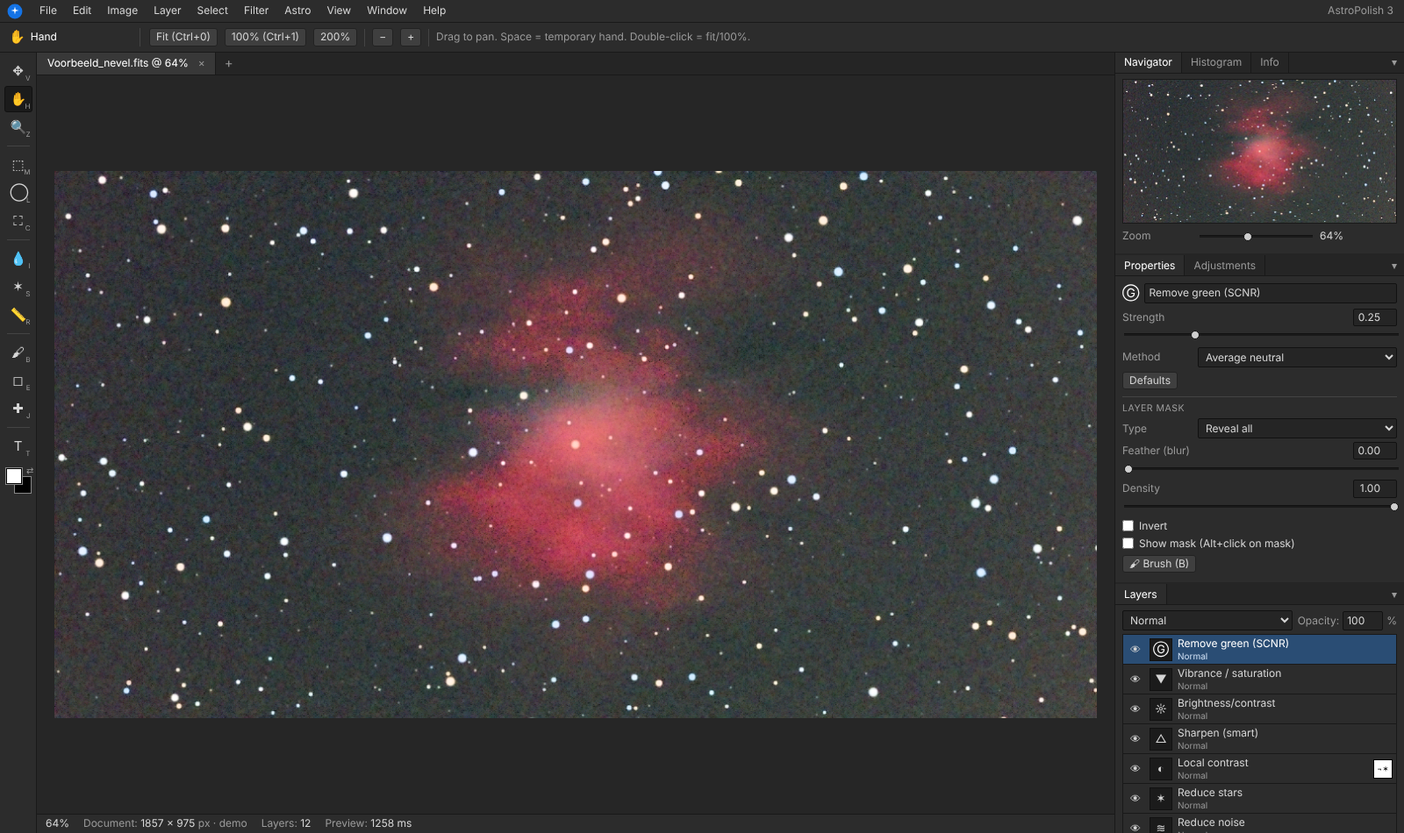
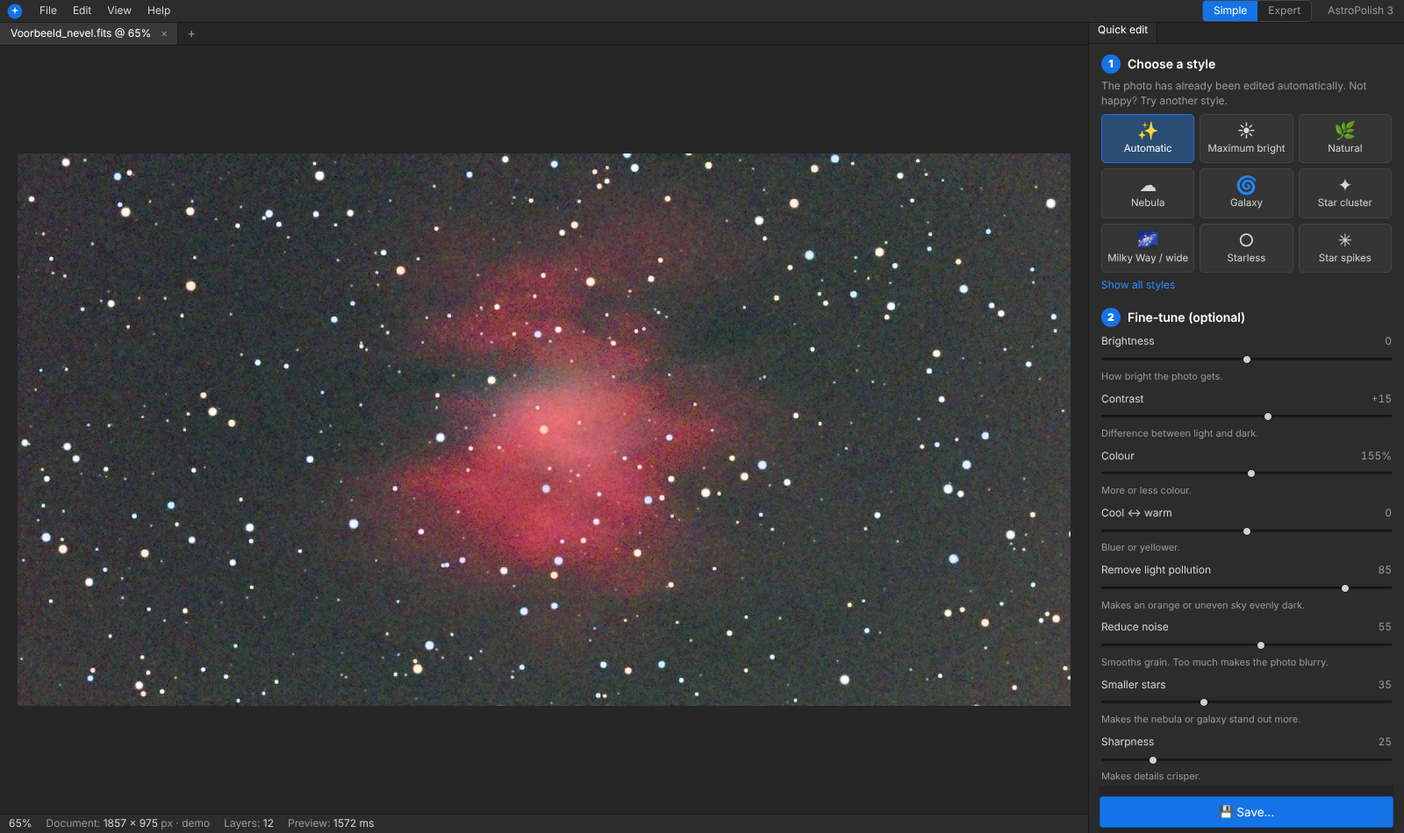
v3.1.0: Simple mode for beginners
- Mode switch Simple/Expert (Simple is default for new users)
- Simple: 3-step quick-edit panel with style tiles, 8 plain-language sliders, before/after, sticky save
- Reduced menus and shortcuts in Simple mode, friendly start screen
- Expert: short explanation for each layer in Properties, layer list and menus

diff --git a/app/js/app.js b/app/js/app.js
@@ -49,6 +49,7 @@
     beforeCanvas: document.createElement('canvas'), afterCanvas: document.createElement('canvas'), snapCanvas: document.createElement('canvas'),
     afterData: null, hist: null, histCh: 'rgb', histLog: false, renderMs: 0, region: null,
     previewBusy: false, previewQueued: false, regionTimer: 0, token: 0, mouse: null, drag: null,
+    mode: store.get('mode', 'simple'),
     prefs: Object.assign({ preview: 1200, cache: 12 }, store.get('prefs', {})),
     panels: store.get('panels', { nav: true, hist: true, info: true, props: true, adj: true, layers: true, history: true, actions: true }),
     panelTab: { a: 'nav', b: 'props', c: 'layers', d: 'actions' },
@@ -808,7 +809,7 @@
   const SHORT_OPS = { levels: 'Ctrl+L', curves: 'Ctrl+M', huesat: 'Ctrl+U', colorbalance: 'Ctrl+B', invert: 'Ctrl+I', bw: 'Alt+Shift+Ctrl+B' };
   function adjMenu(groups) {
     const items = [];
-    for (const g of groups) for (const k of Object.keys(O.OPS).filter((x) => O.OPS[x].g === g && x !== 'text')) items.push({ label: opName(k), icon: ICON[k], action: () => addLayer(k), shortcut: SHORT_OPS[k] });
+    for (const g of groups) for (const k of Object.keys(O.OPS).filter((x) => O.OPS[x].g === g && x !== 'text')) items.push({ label: opName(k), icon: ICON[k], action: () => addLayer(k), shortcut: SHORT_OPS[k], help: helpOf(k) });
     return items;
   }
   function menus() {
@@ -924,11 +925,13 @@
       [L('Venster', 'Window'), [
         ...[['nav', 'Navigator', 'Navigator'], ['hist', 'Histogram', 'Histogram'], ['info', 'Info', 'Info'], ['props', 'Eigenschappen', 'Properties'], ['adj', 'Aanpassingen', 'Adjustments'], ['layers', 'Lagen', 'Layers'], ['history', 'Geschiedenis', 'History'], ['actions', 'Acties', 'Actions']].map(([k, nl, en]) => ({ label: L(nl, en), chk: S.panels[k], action: () => { S.panels[k] = !S.panels[k]; store.set('panels', S.panels); renderDock(); } })),
         '-',
+        { label: L('Eenvoudige modus', 'Simple mode'), chk: S.mode === 'simple', action: () => setMode(S.mode === 'simple' ? 'expert' : 'simple') },
         { label: L('Werkruimte herstellen', 'Reset workspace'), action: () => { S.panels = { nav: true, hist: true, info: true, props: true, adj: true, layers: true, history: true, actions: true }; store.set('panels', S.panels); renderDock(); } },
       ]],
       [L('Help', 'Help'), [
         { label: L('AstroPolish Help', 'AstroPolish Help'), shortcut: 'F1', action: helpDialog },
         { label: L('Sneltoetsen', 'Keyboard shortcuts'), action: keysDialog },
+        { label: L('Eenvoudige modus', 'Simple mode'), chk: S.mode === 'simple', action: () => setMode(S.mode === 'simple' ? 'expert' : 'simple') },
         '-',
         { label: 'Nederlands', chk: I18N.getLang() === 'nl', action: () => { I18N.setLang('nl'); renderAll(); } },
         { label: 'English', chk: I18N.getLang() === 'en', action: () => { I18N.setLang('en'); renderAll(); } },
@@ -945,13 +948,20 @@
   function renderMenubar() {
     const mb = $('menubar'); mb.innerHTML = '';
     mb.appendChild(el('span', '', '<svg class="logo" viewBox="0 0 64 64"><circle cx="32" cy="32" r="30" fill="#1473e6"/><path d="M32 12l3.2 12.8L48 28l-12.8 3.2L32 44l-3.2-12.8L16 28l12.8-3.2z" fill="#fff"/></svg>'));
-    menus().forEach(([label], idx) => {
+    const ms = menus();
+    ms.forEach(([label], idx) => {
+      if (S.mode === 'simple' && ![0, 1, 7, 9].includes(idx)) return;
       const b = el('button', 'mtop', esc(label));
       b.onclick = (e) => { e.stopPropagation(); if (openMenu === idx) closeMenus(); else showTopMenu(idx, b); };
       b.onmouseenter = () => { if (openMenu !== null && openMenu !== idx && openMenu >= 0) showTopMenu(idx, b); };
       mb.appendChild(b);
     });
     mb.appendChild(el('span', 'spacer'));
+    const sw = el('div', 'modeswitch');
+    for (const [m, nl, en, tnl, ten] of [['simple', 'Eenvoudig', 'Simple', 'Stijl kiezen, een paar schuifjes, opslaan', 'Pick a style, a few sliders, save'], ['expert', 'Expert', 'Expert', 'Alle gereedschappen, lagen en maskers (Photoshop-stijl)', 'All tools, layers and masks (Photoshop style)']]) {
+      const b = el('button', S.mode === m ? 'on' : '', esc(L(nl, en))); b.title = L(tnl, ten); b.dataset.mode = m; b.onclick = (e) => { e.stopPropagation(); if (S.mode !== m) setMode(m); }; sw.appendChild(b);
+    }
+    mb.appendChild(sw);
     mb.appendChild(el('span', 'appname', 'AstroPolish 3'));
   }
   function closeMenus() { $('menuLayer').innerHTML = ''; openMenu = null; document.querySelectorAll('.mtop').forEach((x) => x.classList.remove('open')); }
@@ -967,6 +977,7 @@
     for (const it of items) {
       if (it === '-') { m.appendChild(el('div', 'sep')); continue; }
       const mi = el('div', 'mi' + (it.dis ? ' dis' : '') + (it.sub ? ' sub' : ''), `<span class="chk">${it.chk ? '✓' : ''}</span>${it.icon ? `<span style="width:16px;text-align:center">${it.icon}</span>` : ''}<span>${esc(it.label)}</span>${it.shortcut ? `<span class="sc">${esc(it.shortcut)}</span>` : ''}`);
+      if (it.help) mi.title = it.help;
       mi.onmouseenter = () => {
         m.querySelectorAll('.mi.open').forEach((o) => o.classList.remove('open'));
         [...layer.querySelectorAll('.menu')].filter((mm) => +mm.dataset.depth > depth).forEach((mm) => mm.remove());
@@ -1006,6 +1017,12 @@
   const PANEL_GROUPS = [['a', [['nav', 'Navigator', 'Navigator'], ['hist', 'Histogram', 'Histogram'], ['info', 'Info', 'Info']]], ['b', [['props', 'Eigenschappen', 'Properties'], ['adj', 'Aanpassingen', 'Adjustments']]], ['c', [['layers', 'Lagen', 'Layers']]], ['d', [['actions', 'Acties', 'Actions'], ['history', 'Geschiedenis', 'History']]]];
   function renderDock() {
     const dock = $('dock'); dock.innerHTML = '';
+    if (S.mode === 'simple') {
+      const p = el('section', 'panel simplepanel');
+      p.appendChild(el('div', 'phead', `<span class="ptab on">${L('Snel bewerken', 'Quick edit')}</span>`));
+      const body = el('div', 'pbody'); body.id = 'pb-s'; p.appendChild(body); dock.appendChild(p);
+      pSimple(body); return;
+    }
     for (const [gid, tabs] of PANEL_GROUPS) {
       const vis = tabs.filter(([k]) => S.panels[k]);
       if (!vis.length) continue;
@@ -1027,6 +1044,7 @@
   }
   function renderPanels(which) {
     const all = !which, want = (k) => all || which.includes(k);
+    if (S.mode === 'simple') { if ($('pb-s') && (all || which.includes('layers') || which.includes('props'))) pSimple($('pb-s')); const d0 = D(); if (d0 && $('sUndo')) { $('sUndo').disabled = d0.hIndex <= 0; $('sRedo').disabled = d0.hIndex >= d0.history.length - 1; } renderStatus(); return; }
     const a = S.panelTab.a, b = S.panelTab.b, d2 = S.panelTab.d;
     if ($('pb-a') && want(a)) ({ nav: pNav, hist: pHist, info: pInfo })[a]($('pb-a'));
     if ($('pb-b') && want(b)) ({ props: pProps, adj: pAdj })[b]($('pb-b'));
@@ -1116,7 +1134,7 @@
     for (const [title, ops] of sections) {
       box.appendChild(el('div', 'psec', esc(title)));
       const grid = el('div', 'adjgrid');
-      for (const k of ops) { const b = el('button', '', ICON[k] || '•'); b.title = opName(k); b.dataset.op = k; b.onclick = () => (D() ? addLayer(k) : toast(L('Open eerst een foto.', 'Open a photo first.'))); grid.appendChild(b); }
+      for (const k of ops) { const b = el('button', '', ICON[k] || '•'); b.title = opName(k) + (helpOf(k) ? '\n' + helpOf(k) : ''); b.dataset.op = k; b.onclick = () => (D() ? addLayer(k) : toast(L('Open eerst een foto.', 'Open a photo first.'))); grid.appendChild(b); }
       box.appendChild(grid);
     }
     box.appendChild(el('p', 'pnote', L('Klik op een icoon om een nieuwe laag boven de geselecteerde laag te maken. Is er een selectie, dan wordt die het masker.', 'Click an icon to add a new layer above the selected layer. If there is a selection, it becomes the mask.')));
@@ -1138,7 +1156,7 @@
       const hasMask = l.op !== 'text' && (l.mask.type !== 'none' || (l.mask.strokes && l.mask.strokes.length) || l.mask.invert);
       const li = el('li', 'layer' + (l.id === d.sel ? ' sel' : '') + (l.on ? '' : ' off'),
         `<button class="eye" title="${L('Tonen/verbergen', 'Show/hide')}">👁</button><span class="thumb">${ICON[l.op] || '•'}</span><span class="nm">${esc(layerTitle(l))}<small>${l.op === 'text' ? L('tekst', 'text') : esc(L(...BLEND_NAMES[l.blend || 'normal']))}${l.opacity < 1 ? ' · ' + Math.round(l.opacity * 100) + '%' : ''}</small></span>${hasMask ? `<span class="mk${l.mask.invert ? ' inv' : ''}${S.viewMaskId === l.id ? ' view' : ''}" title="${L('Masker (Alt+klik = tonen)', 'Mask (Alt+click = show)')}">${maskBadge(l.mask)}</span>` : '<span></span>'}`);
-      li.draggable = true; li.dataset.id = l.id;
+      li.draggable = true; li.dataset.id = l.id; li.title = helpOf(l.op);
       li.onclick = (e) => { if (e.target.classList.contains('eye')) return; if (e.altKey && hasMask) { toggleViewMask(l); return; } selectLayer(l.id); };
       li.querySelector('.eye').onclick = (e) => { e.stopPropagation(); toggleLayer(l.id); };
       li.ondblclick = () => { const n = window.prompt(L('Naam van de laag:', 'Layer name:'), layerTitle(l)); if (n !== null) { l.name = n; renderPanels(['layers', 'props']); commit(L('Laag hernoemd', 'Layer renamed'), true); } };
@@ -1180,6 +1198,7 @@
     const title = el('div', 'ptitle', `<span class="ic">${ICON[ly.op] || ''}</span>`);
     const nm = el('input'); nm.type = 'text'; nm.value = layerTitle(ly); nm.onchange = () => { ly.name = nm.value; renderPanels(['layers']); commit(L('Laag hernoemd', 'Layer renamed'), true); };
     title.appendChild(nm); box.appendChild(title);
+    if (helpOf(ly.op)) box.appendChild(el('p', 'phelp', esc(helpOf(ly.op))));
     if (ly.op === 'text') { textProps(box, ly); return; }
     const op = O.OPS[ly.op];
     if (!op.p.length) box.appendChild(el('p', 'pnote', L('Deze laag heeft geen instellingen.', 'This layer has no settings.')));
@@ -1415,6 +1434,149 @@
     const my = store.get('actions', {});
     my[n.slice(0, 50)] = { layers: deep(d.layers).filter((l) => l.op !== 'heal').map((l) => { if (l.params.wbPick) l.params.wbPick = null; if (l.params.bgPick) l.params.bgPick = null; if (l.mask) l.mask.strokes = []; return l; }) };
     store.set('actions', my); d.action = 'my:' + n.slice(0, 50); renderPanels(['actions']); toast(L('Actie opgeslagen.', 'Action saved.'));
+  }
+
+
+  // ---------------------------------------------------------- simple mode ---
+  const HELP = {
+    hotpix: ['Haalt losse felle pixels (ruis van de camera) weg.', 'Removes single bright pixels (camera noise).'],
+    gradient: ['Haalt lichtvervuiling en ongelijke achtergrond weg, zodat de lucht overal even donker is.', 'Removes light pollution and an uneven background so the sky is equally dark everywhere.'],
+    vignfix: ['Maakt donkere hoeken lichter.', 'Brightens dark corners.'],
+    colorcal: ['Maakt de achtergrond neutraal grijs en geeft de sterren natuurlijke kleuren.', 'Makes the background neutral grey and gives stars natural colours.'],
+    deconv: ['Maakt sterren en details scherper door de wazigheid van de lucht terug te rekenen.', 'Sharpens stars and detail by undoing atmospheric blur.'],
+    stretch: ['De belangrijkste stap: maakt de donkere ruwe opname helder zodat de nevel zichtbaar wordt.', 'The key step: brightens the dark raw image so the nebula becomes visible.'],
+    hdr: ['Voorkomt dat felle kernen (zoals in Orion) wit uitbijten.', 'Keeps bright cores (like in Orion) from burning out to white.'],
+    hdrmt: ['Haalt detail terug in felle gebieden.', 'Recovers detail in bright areas.'],
+    palette: ['Kleuren voor foto\'s met een duoband-filter (rood/blauwgroen).', 'Colours for photos taken with a dual-band filter (red/teal).'],
+    scnr: ['Haalt een groene waas weg.', 'Removes a green cast.'],
+    starreduce: ['Maakt sterren kleiner zodat de nevel meer opvalt.', 'Makes stars smaller so the nebula stands out.'],
+    starsplit: ['Bewerk sterren apart: kleiner, minder fel, andere kleur of helemaal weg.', 'Edit stars separately: smaller, dimmer, different colour or removed.'],
+    spikes: ['Voegt kruisvormige stralen toe aan felle sterren.', 'Adds cross-shaped rays to bright stars.'],
+    denoise: ['Maakt korrelige ruis glad.', 'Smooths out grainy noise.'],
+    bgsmooth: ['Maakt alleen de donkere achtergrond gladder, niet de nevel.', 'Smooths only the dark background, not the nebula.'],
+    localcontrast: ['Laat structuur in de nevel meer uitkomen.', 'Brings out structure in the nebula.'],
+    sharpen: ['Maakt fijne details scherper zonder de ruis te versterken.', 'Sharpens fine detail without boosting noise.'],
+    wavelets: ['Versterkt detail per grootte, zoals in RegiStax. Vooral voor maan en planeten.', 'Boosts detail per size, like RegiStax. Mainly for moon and planets.'],
+    brightcon: ['Lichter/donkerder en meer of minder contrast.', 'Lighter/darker and more or less contrast.'],
+    levels: ['Zwartpunt, middentonen en witpunt instellen.', 'Set black point, midtones and white point.'],
+    curves: ['Trek aan de lijn om bepaalde helderheden lichter of donkerder te maken.', 'Drag the line to make certain brightness levels lighter or darker.'],
+    vibrance: ['Meer of minder kleur.', 'More or less colour.'],
+    huesat: ['Kleur verschuiven, verzadigen of één kleur geven.', 'Shift colour, saturate or colourise.'],
+    hsl: ['Pas één kleur aan, bijvoorbeeld alleen het rood van de nevel.', 'Adjust one colour, e.g. only the red of the nebula.'],
+    temptint: ['Warmer (geler) of koeler (blauwer).', 'Warmer (yellower) or cooler (bluer).'],
+    glow: ['Zachte gloed rond felle delen.', 'Soft glow around bright parts.'],
+    vignette: ['Donkere randen voor meer focus op het midden.', 'Dark edges to focus on the centre.'],
+    heal: ['Schilder over satellietstrepen of vlekken om ze weg te werken.', 'Paint over satellite trails or spots to remove them.'],
+    text: ['Tekst op de foto, bijvoorbeeld de naam van het object.', 'Text on the photo, e.g. the object name.'],
+  };
+  const helpOf = (op) => (HELP[op] ? L(HELP[op][0], HELP[op][1]) : '');
+  const ORDER = ['hotpix', 'vignfix', 'gradient', 'colorcal', 'deconv', 'stretch', 'hdr', 'hdrmt', 'palette', 'denoise', 'bgsmooth', 'starsplit', 'starreduce', 'localcontrast', 'sharpen', 'wavelets', 'brightcon', 'temptint', 'vibrance', 'hsl', 'scnr', 'spikes', 'glow', 'vignette', 'bw', 'huesat'];
+  function ensureLayer(op, init) {
+    const d = D(); let ly = d.layers.find((l) => l.op === op);
+    if (ly) return ly;
+    ly = O.newLayer(op, init);
+    const oi = ORDER.indexOf(op);
+    let at = d.layers.findIndex((l) => l.op === 'text' || (ORDER.indexOf(l.op) > oi));
+    if (at < 0) at = d.layers.length;
+    d.layers.splice(at, 0, ly);
+    return ly;
+  }
+  // simple controls: get() -> value, set(v)
+  const SIMPLE = [
+    { k: 'bright', nl: 'Helderheid', en: 'Brightness', hnl: 'Hoe helder de foto wordt.', hen: 'How bright the photo gets.', min: -1, max: 1, step: 0.01,
+      get: (d) => { const st = d.layers.find((l) => l.op === 'stretch' && l.on); const bc = d.layers.find((l) => l.op === 'brightcon'); return (bc ? bc.params.brightness : 0); },
+      set: (v) => { ensureLayer('brightcon', { brightness: 0, contrast: 0 }).params.brightness = v; } },
+    { k: 'contrast', nl: 'Contrast', en: 'Contrast', hnl: 'Verschil tussen licht en donker.', hen: 'Difference between light and dark.', min: -1, max: 1, step: 0.01,
+      get: (d) => { const l = d.layers.find((x) => x.op === 'brightcon'); return l ? l.params.contrast : 0; },
+      set: (v) => { ensureLayer('brightcon', { brightness: 0, contrast: 0 }).params.contrast = v; } },
+    { k: 'color', nl: 'Kleur', en: 'Colour', hnl: 'Meer of minder kleur.', hen: 'More or less colour.', min: 0, max: 3, step: 0.01,
+      get: (d) => { const l = d.layers.find((x) => x.op === 'vibrance'); return l ? l.params.saturation : 1; },
+      set: (v) => { ensureLayer('vibrance', { saturation: 1, vibrance: 0 }).params.saturation = v; } },
+    { k: 'warm', nl: 'Koel ↔ warm', en: 'Cool ↔ warm', hnl: 'Blauwer of geler.', hen: 'Bluer or yellower.', min: -1, max: 1, step: 0.01,
+      get: (d) => { const l = d.layers.find((x) => x.op === 'colorcal'); return l ? l.params.temperature : 0; },
+      set: (v) => { ensureLayer('colorcal', { neutralize: false, whiteBalance: 0 }).params.temperature = v; } },
+    { k: 'lp', nl: 'Lichtvervuiling weghalen', en: 'Remove light pollution', hnl: 'Maakt een oranje of ongelijke lucht egaal donker.', hen: 'Makes an orange or uneven sky evenly dark.', min: 0, max: 1, step: 0.01,
+      get: (d) => { const l = d.layers.find((x) => x.op === 'gradient' && x.on); return l ? l.params.amount : 0; },
+      set: (v) => { const l = ensureLayer('gradient', { amount: 0 }); l.params.amount = v; l.on = true; } },
+    { k: 'noise', nl: 'Ruis wegwerken', en: 'Reduce noise', hnl: 'Maakt korrel glad. Te veel maakt de foto wazig.', hen: 'Smooths grain. Too much makes the photo blurry.', min: 0, max: 1, step: 0.01,
+      get: (d) => { const l = d.layers.find((x) => x.op === 'denoise' && x.on); return l ? l.params.luma : 0; },
+      set: (v) => { const l = ensureLayer('denoise', { luma: 0, chroma: 0 }); l.params.luma = v; l.params.chroma = Math.min(1, v * 1.2); l.on = true; } },
+    { k: 'stars', nl: 'Sterren kleiner', en: 'Smaller stars', hnl: 'Laat de nevel of het sterrenstelsel meer opvallen.', hen: 'Makes the nebula or galaxy stand out more.', min: 0, max: 1, step: 0.01,
+      get: (d) => { const s2 = d.layers.find((x) => x.op === 'starsplit' && x.on); if (s2) return s2.params.reduce; const l = d.layers.find((x) => x.op === 'starreduce' && x.on); return l ? l.params.amount : 0; },
+      set: (v) => { const s2 = D().layers.find((x) => x.op === 'starsplit' && x.on); if (s2) { s2.params.reduce = v; return; } const l = ensureLayer('starreduce', { amount: 0 }); l.params.amount = v; l.on = true; } },
+    { k: 'sharp', nl: 'Scherpte', en: 'Sharpness', hnl: 'Maakt details scherper.', hen: 'Makes details crisper.', min: 0, max: 1.5, step: 0.01,
+      get: (d) => { const l = d.layers.find((x) => x.op === 'sharpen' && x.on); return l ? l.params.amount : 0; },
+      set: (v) => { const l = ensureLayer('sharpen', { amount: 0 }); l.params.amount = v; l.on = true; } },
+  ];
+  const STYLE_TILES = [['auto', '✨'], ['bright', '☀'], ['natural', '🌿'], ['nebula', '☁'], ['galaxy', '🌀'], ['cluster', '✦'], ['milkyway', '🌌'], ['starless', '○'], ['spikes', '✳'], ['dreamy', '💫'], ['mono', '◧'], ['hoo', 'Ⓗ'], ['foraxx', '🎨'], ['hubble', '🔭'], ['moon', '🌙'], ['moonColour', '🌕'], ['sun', '🌞'], ['sunHa', '🟠'], ['planet', '🪐']];
+  function setMode(m) {
+    S.mode = m; store.set('mode', m);
+    if (m === 'simple') { S.tool = 'hand'; S.cropRect = null; S.viewMaskId = null; const d = D(); if (d) d.selection = null; }
+    document.body.classList.toggle('simple', m === 'simple');
+    renderAll(); requestPreview();
+    setTimeout(() => { clampCenter(); draw(); }, 50);
+  }
+  function pSimple(box) {
+    const d = D(); box.innerHTML = '';
+    if (!d) {
+      box.appendChild(el('div', 'sstep', `<b>1</b> ${L('Open een foto', 'Open a photo')}`));
+      box.appendChild(el('p', 'pnote', L('Klik op <i>Foto openen</i> of sleep een foto in het venster. Het liefst het gestackte FITS-bestand van je telescoop.', 'Click <i>Open photo</i> or drop a photo on the window. Preferably the stacked FITS file from your telescope.')));
+      const b = el('button', 'btn primary big', L('Foto openen…', 'Open photo…')); b.onclick = () => $('fileInput').click(); box.appendChild(b);
+      const b2 = el('button', 'btn big', L('Probeer met een voorbeeld', 'Try with a sample')); b2.onclick = openDemo; box.appendChild(b2);
+      return;
+    }
+    box.appendChild(el('div', 'sstep', `<b>1</b> ${L('Kies een stijl', 'Choose a style')}`));
+    box.appendChild(el('p', 'pnote', L('De foto is al automatisch bewerkt. Vind je het niet mooi? Probeer een andere stijl.', 'The photo has already been edited automatically. Not happy? Try another style.')));
+    const grid = el('div', 'stylegrid');
+    const all = ACTIONS.flatMap(([, , list]) => list);
+    const det = d.detected && d.detected.type;
+    const showAll = S.simpleAllStyles;
+    const solar = ['moon', 'moonColour', 'sun', 'sunHa', 'planet'], nb = ['hoo', 'foraxx', 'hubble'];
+    const isSolar = solar.includes(det);
+    let tiles = STYLE_TILES.filter(([k]) => showAll || (isSolar ? solar.includes(k) || k === 'auto' : !solar.includes(k) && (d.detected && d.detected.dualBand ? true : !nb.includes(k))));
+    if (!showAll) tiles = tiles.slice(0, 9);
+    for (const [k, ic] of tiles) {
+      const a = all.find((x) => x[0] === k); if (!a) continue;
+      const b = el('button', 'stile' + (d.action === k ? ' on' : ''), `<span class="ic">${ic}</span><span>${esc(L(a[2], a[3]))}</span>`);
+      b.dataset.action = k;
+      b.onclick = () => applyAction(k);
+      grid.appendChild(b);
+    }
+    box.appendChild(grid);
+    const more = el('button', 'linkbtn', showAll ? L('Minder stijlen', 'Fewer styles') : L('Alle stijlen tonen', 'Show all styles'));
+    more.onclick = () => { S.simpleAllStyles = !showAll; pSimple(box); };
+    box.appendChild(more);
+
+    box.appendChild(el('div', 'sstep', `<b>2</b> ${L('Fijn afstellen (mag ook overslaan)', 'Fine-tune (optional)')}`));
+    for (const c of SIMPLE) {
+      const row = el('div', 'srow', `<div class="sl"><span>${esc(L(c.nl, c.en))}</span><span class="v"></span></div><input type="range" min="${c.min}" max="${c.max}" step="${c.step}"><div class="sh">${esc(L(c.hnl, c.hen))}</div>`);
+      const i = row.querySelector('input'), v = row.querySelector('.v');
+      const show = (x) => { v.textContent = c.k === 'color' ? Math.round(x * 100) + '%' : (x > 0 && c.min < 0 ? '+' : '') + Math.round(x * 100); };
+      const cur = c.get(d); i.value = cur; show(cur);
+      i.oninput = () => { c.set(+i.value); show(+i.value); requestPreview(); commit(L(c.nl, c.en)); };
+      i.ondblclick = () => { const def = c.k === 'color' ? 1 : 0; i.value = def; i.oninput(); };
+      row.dataset.k = c.k;
+      box.appendChild(row);
+    }
+    const rb = el('div', 'pbtns');
+    const r1 = el('button', 'btn sm', '↺ ' + L('Stijl opnieuw toepassen', 'Re-apply style')); r1.onclick = () => applyAction(d.action || 'auto');
+    const r2 = el('button', 'btn sm', '↶ ' + L('Ongedaan', 'Undo')); r2.onclick = undo; r2.disabled = d.hIndex <= 0; r2.id = 'sUndo';
+    const r3 = el('button', 'btn sm', '↷ ' + L('Opnieuw', 'Redo')); r3.onclick = redo; r3.disabled = d.hIndex >= d.history.length - 1; r3.id = 'sRedo';
+    rb.appendChild(r2); rb.appendChild(r3); rb.appendChild(r1); box.appendChild(rb);
+
+    box.appendChild(el('div', 'sstep', `<b>3</b> ${L('Bekijken en opslaan', 'Check and save')}`));
+    const vb = el('div', 'pbtns');
+    const cmp = el('button', 'btn' + (S.showOriginal ? ' on' : ''), '👁 ' + L('Houd vast: origineel', 'Hold: original'));
+    cmp.onpointerdown = () => { S.showOriginal = true; draw(); }; const up = () => { if (S.showOriginal) { S.showOriginal = false; draw(); } };
+    cmp.onpointerup = up; cmp.onpointerleave = up;
+    const sp = el('button', 'btn' + (S.split ? ' on' : ''), '◧ ' + L('Voor/na', 'Before/after')); sp.onclick = () => { S.split = !S.split; draw(); pSimple(box); };
+    const z = el('button', 'btn', '🔍 ' + (d.zoom === 'fit' ? L('Inzoomen 100%', 'Zoom 100%') : L('Hele foto', 'Whole photo'))); z.onclick = () => { setZoom(d.zoom === 'fit' ? 1 : 'fit'); pSimple(box); };
+    vb.appendChild(cmp); vb.appendChild(sp); vb.appendChild(z); box.appendChild(vb);
+    const sv = el('button', 'btn primary big', '💾 ' + L('Opslaan…', 'Save…')); sv.onclick = exportDialog; const sw2 = el('div', 'stickysave'); sw2.appendChild(sv); box.appendChild(sw2);
+    box.appendChild(el('p', 'pnote', L('Kies bij opslaan bijvoorbeeld "Instagram 4:5" of "Bureaublad". Je origineel blijft altijd bewaard.', 'When saving you can pick e.g. "Instagram 4:5" or "Desktop". Your original is never changed.')));
+    const ex = el('div', 'expertnote', `${L('Meer mogelijkheden nodig? Lagen, maskers, curven, sterren, tekst…', 'Need more? Layers, masks, curves, stars, text…')} `);
+    const eb = el('button', 'linkbtn', L('Naar Expert-modus →', 'Switch to Expert mode →')); eb.onclick = () => setMode('expert'); ex.appendChild(eb);
+    box.appendChild(ex);
   }
 
   // -------------------------------------------------------------- dialogs ---
@@ -1661,6 +1823,17 @@
   // ---------------------------------------------------------- start screen ---
   function renderStart() {
     const s = $('startscreen');
+    if (S.mode === 'simple') {
+      s.innerHTML = `<div class="box simplestart"><div class="steps">
+        <h1>AstroPolish</h1><p class="lead">${L('Mooie astrofoto\'s in drie stappen.', 'Beautiful astrophotos in three steps.')}</p>
+        <ol><li><b>${L('Open je foto', 'Open your photo')}</b><span>${L('Het gestackte FITS- of JPG-bestand van je Dwarf 3. De app maakt hem meteen zo helder en mooi mogelijk.', 'The stacked FITS or JPG file from your Dwarf 3. The app immediately makes it as bright and beautiful as possible.')}</span></li>
+        <li><b>${L('Kies een stijl', 'Choose a style')}</b><span>${L('Niet tevreden? Klik een andere stijl aan of schuif aan helderheid, kleur of ruis.', 'Not happy? Click another style or move the brightness, colour or noise sliders.')}</span></li>
+        <li><b>${L('Opslaan', 'Save')}</b><span>${L('Als JPG voor je telefoon, Instagram of als bureaubladachtergrond.', 'As JPG for your phone, Instagram or as a desktop background.')}</span></li></ol>
+        <div class="pbtns"><button class="btn primary big" id="ssOpen">${L('Foto openen…', 'Open photo…')}</button><button class="btn big" id="ssDemo">${L('Probeer met een voorbeeld', 'Try with a sample')}</button></div>
+        <p class="pnote">${L('Of sleep een foto in dit venster. Alles blijft op je eigen computer.', 'Or drop a photo on this window. Everything stays on your computer.')}</p></div></div>`;
+      $('ssOpen').onclick = () => $('fileInput').click(); $('ssDemo').onclick = openDemo;
+      return;
+    }
     s.innerHTML = `<div class="box"><div class="col"><h1>AstroPolish</h1>
       <button class="btn primary big" id="ssOpen">${L('Openen…', 'Open…')}</button>
       <button class="btn big" id="ssDemo">${L('Voorbeeld openen', 'Open sample')}</button>
@@ -1670,7 +1843,7 @@
       <div class="drop"><div><b>${L("Sleep foto's hierheen", 'Drop photos here')}</b>JPG · PNG · WebP · TIFF (8/16/32-bit) · FITS (RGB/Bayer)<br><br>${L('Meerdere FITS tegelijk slepen = sessies combineren.', 'Dropping several FITS at once = combine sessions.')}<br><br><span class="pnote">${L('Alles blijft op je eigen computer.', 'Everything stays on your computer.')}</span></div></div></div>`;
     $('ssOpen').onclick = () => $('fileInput').click(); $('ssDemo').onclick = openDemo; $('ssStack').onclick = () => stackDialog(); $('ssBatch').onclick = batchDialog; $('ssHelp').onclick = helpDialog;
   }
-  function renderAll() { document.documentElement.lang = I18N.getLang(); renderMenubar(); renderToolbar(); renderOptions(); renderStart(); renderDock(); renderStatus(); draw(); }
+  function renderAll() { document.documentElement.lang = I18N.getLang(); document.body.classList.toggle('simple', S.mode === 'simple'); renderMenubar(); renderToolbar(); renderOptions(); renderStart(); renderDock(); renderStatus(); draw(); }
 
   // ------------------------------------------------------------- keyboard ---
   const typing = () => { const a = document.activeElement; return a && (a.tagName === 'TEXTAREA' || (a.tagName === 'INPUT' && !['range', 'checkbox', 'button', 'color'].includes(a.type)) || a.tagName === 'SELECT'); };
@@ -1692,11 +1865,14 @@
         2: () => { S.channel = 'rgb'; draw(); }, 3: () => { S.channel = 'r'; draw(); }, 4: () => { S.channel = 'g'; draw(); }, 5: () => { S.channel = 'b'; draw(); }, 6: () => { S.channel = 'l'; draw(); },
         '[': () => moveLayer(-1), ']': () => moveLayer(1), ',': () => { const l = curLayer(); if (l) toggleLayer(l.id); }, "'": () => { S.grid = !S.grid; draw(); },
       };
-      const fn = map[lk]; if (fn && (D() || ['o', 'k'].includes(lk))) { e.preventDefault(); fn(); renderStatus(); }
+      const fn = map[lk];
+      if (S.mode === 'simple' && 'lmubijad[],\''.includes(lk)) { e.preventDefault(); return; }
+      if (fn && (D() || ['o', 'k'].includes(lk))) { e.preventDefault(); fn(); renderStatus(); }
       return;
     }
     if (e.altKey && k.toLowerCase() === 'k') { S.clip = !S.clip; draw(); e.preventDefault(); return; }
     if (k === 'F1') { e.preventDefault(); helpDialog(); return; }
+    if (S.mode === 'simple') { if (k === '\\') { S.showOriginal = !S.showOriginal; draw(); } if (k.toLowerCase() === 'y') { S.split = !S.split; draw(); } return; }
     if (k === 'Delete' || k === 'Backspace') { if (curLayer()) { deleteLayer(); e.preventDefault(); } return; }
     if (k === 'Enter' && S.tool === 'crop') { applyCrop(); return; }
     if (k === '\\') { S.showOriginal = !S.showOriginal; draw(); return; }
@@ -1727,5 +1903,5 @@
 
   // ---------------------------------------------------------------- init ---
   renderAll();
-  window.AstroApp = { S, D, openDemo, openImage, addLayer, deleteLayer, selectLayer, setTool, setZoom, applyAction, undo, redo, renderFull, exportDialog, takeSnapshot, isWorker: proc.isWorker, setGeom, curLayer, requestPreview, toggleViewMask, setParam, setMask };
+  window.AstroApp = { S, D, openDemo, openImage, addLayer, deleteLayer, selectLayer, setTool, setZoom, applyAction, undo, redo, renderFull, exportDialog, takeSnapshot, isWorker: proc.isWorker, setGeom, curLayer, requestPreview, toggleViewMask, setParam, setMask, setMode };
 })();

diff --git a/app/css/style.css b/app/css/style.css
@@ -208,3 +208,43 @@ body.dragover .stage { outline: 2px solid var(--accent); outline-offset: -2px; }
 ::-webkit-scrollbar-track { background: var(--bg1); }
 ::-webkit-scrollbar-thumb { background: #4a4a4a; border: 2px solid var(--bg1); border-radius: 6px; }
 @media (max-width: 1000px) { .workspace { grid-template-columns: 42px 1fr 280px; } }
+
+/* ---------------- simple mode ---------------- */
+.modeswitch { display: flex; align-self: center; background: var(--bg1); border: 1px solid var(--line2); border-radius: 4px; overflow: hidden; margin-right: 6px; }
+.modeswitch button { border: 0; background: none; color: var(--dim); padding: 3px 12px; font: inherit; cursor: pointer; }
+.modeswitch button.on { background: var(--accent); color: #fff; }
+body.simple .optionsbar, body.simple .toolbar { display: none; }
+body.simple #app { grid-template-rows: 26px 1fr; }
+body.simple .workspace { grid-template-columns: 1fr 360px; }
+body.simple .dock { overflow-y: auto; }
+.simplepanel .pbody { padding: 10px 14px 16px; }
+.sstep { display: flex; align-items: center; gap: 8px; margin: 16px 0 6px; font-size: 14px; color: var(--hi); font-weight: 600; }
+.sstep:first-child { margin-top: 2px; }
+.sstep b { display: inline-grid; place-items: center; width: 22px; height: 22px; border-radius: 50%; background: var(--accent); color: #fff; font-size: 12px; }
+.stylegrid { display: grid; grid-template-columns: repeat(3, 1fr); gap: 6px; margin: 6px 0 4px; }
+.stile { display: flex; flex-direction: column; align-items: center; gap: 3px; padding: 8px 4px; background: var(--bg3); border: 1px solid var(--line2); border-radius: 5px; color: var(--text); cursor: pointer; font: inherit; font-size: 11.5px; text-align: center; }
+.stile .ic { font-size: 20px; line-height: 1; }
+.stile:hover { background: #4b4b4b; color: var(--hi); }
+.stile.on { background: var(--sel); border-color: var(--accent); color: #fff; }
+.linkbtn { background: none; border: 0; color: var(--accent2); cursor: pointer; padding: 2px 0; font: inherit; }
+.linkbtn:hover { text-decoration: underline; }
+.srow { margin: 8px 0 10px; }
+.srow .sl { display: flex; justify-content: space-between; color: var(--text); }
+.srow .sl .v { color: var(--dim); font-variant-numeric: tabular-nums; }
+.srow input[type=range] { width: 100%; margin: 4px 0 2px; }
+.srow .sh { color: var(--dim); font-size: 11px; }
+.btn.big { padding: 8px 14px; font-size: 13.5px; width: 100%; margin-top: 8px; }
+.pbtns .btn.big { width: auto; }
+.expertnote { margin-top: 18px; padding-top: 10px; border-top: 1px solid var(--line2); color: var(--dim); font-size: 11.5px; }
+.phelp { margin: 2px 0 8px; padding: 6px 8px; background: rgba(20,115,230,.12); border-left: 2px solid var(--accent); color: var(--text); font-size: 11.5px; border-radius: 2px; }
+.simplestart { display: block !important; width: min(620px, 92%) !important; }
+.simplestart h1 { margin: 0; }
+.simplestart .lead { color: var(--dim); font-size: 15px; margin: 4px 0 18px; }
+.simplestart ol { list-style: none; counter-reset: s; padding: 0; margin: 0 0 18px; }
+.simplestart li { counter-increment: s; position: relative; padding: 0 0 14px 44px; }
+.simplestart li::before { content: counter(s); position: absolute; left: 0; top: 0; width: 30px; height: 30px; border-radius: 50%; background: var(--accent); color: #fff; display: grid; place-items: center; font-weight: 700; }
+.simplestart li b { display: block; color: var(--hi); font-size: 15px; }
+.simplestart li span { color: var(--dim); }
+@media (max-width: 1000px) { body.simple .workspace { grid-template-columns: 1fr 300px; } }
+.stickysave { position: sticky; bottom: 0; background: var(--bg1); padding: 4px 0 6px; margin: 0 -2px; z-index: 2; }
+.stickysave .btn.big { box-shadow: 0 -6px 12px var(--bg1); }

diff --git a/test/ui-test.py b/test/ui-test.py
@@ -18,6 +18,23 @@ with sync_playwright() as p:
     page.on('console', lambda m: errors.append('console: ' + m.text) if m.type == 'error' else None)
     page.goto(URL)
     page.wait_for_selector('#menubar .mtop')
+    page.screenshot(path=f'{OUT}/s0-start.png')
+    # ---- simple mode (default for new users)
+    assert page.evaluate("document.body.classList.contains('simple')")
+    page.click('#ssDemo')
+    page.wait_for_function('() => AstroApp.D() && AstroApp.D().layers.length > 3', timeout=60000)
+    wait_idle(page)
+    page.screenshot(path=f'{OUT}/s1-simple.png')
+    page.click('.stile[data-action="bright"]'); wait_idle(page)
+    for k, v in [('bright', '0.3'), ('noise', '0.6'), ('stars', '0.5'), ('lp', '1'), ('warm', '0.3'), ('sharp', '0.5'), ('color', '1.8'), ('contrast', '0.3')]:
+        page.eval_on_selector(f'.srow[data-k="{k}"] input', f"(i) => {{ i.value = '{v}'; i.dispatchEvent(new Event('input')); }}")
+        wait_idle(page)
+    page.screenshot(path=f'{OUT}/s2-sliders.png')
+    print('simple layers:', page.evaluate('AstroApp.D().layers.map(l=>l.op).join(",")'))
+    page.keyboard.press('Control+z'); wait_idle(page)
+    page.click('.modeswitch button[data-mode="expert"]'); wait_idle(page)
+    assert page.evaluate("!document.body.classList.contains('simple')")
+    page.evaluate("AstroApp.S.docs.length = 0; AstroApp.S.cur = null; AstroApp.setMode('expert')")
     page.screenshot(path=f'{OUT}/0-start.png')
     assert page.evaluate('AstroApp.isWorker'), 'worker not active'
 

diff --git a/README.md b/README.md
@@ -3,6 +3,10 @@
 **Astrofoto-editor voor de Dwarf 3 (en andere smart-telescopen), opgezet zoals Adobe Photoshop: menubalk, gereedschappen, optiebalk, documenttabs en panelen, met niet-destructieve aanpassingslagen.**
 Foto erin slepen en je krijgt meteen een complete automatische bewerking, opgebouwd uit lagen die je allemaal nog kunt aanpassen, verbergen, maskeren en mengen.
 
+**Twee modi** (rechtsboven te wisselen):
+- **Eenvoudig** (standaard voor nieuwe gebruikers): drie stappen. Foto openen, stijl kiezen, eventueel een paar schuifjes in gewone taal (helderheid, contrast, kleur, koel/warm, lichtvervuiling, ruis, sterren kleiner, scherpte) en opslaan. Geen lagen of gereedschappen in beeld.
+- **Expert**: de volledige Photoshop-werkruimte hieronder. Elke laag heeft een korte uitleg wat hij doet.
+
 ![AstroPolish](docs/screenshot.png)
 
 ## Downloaden
